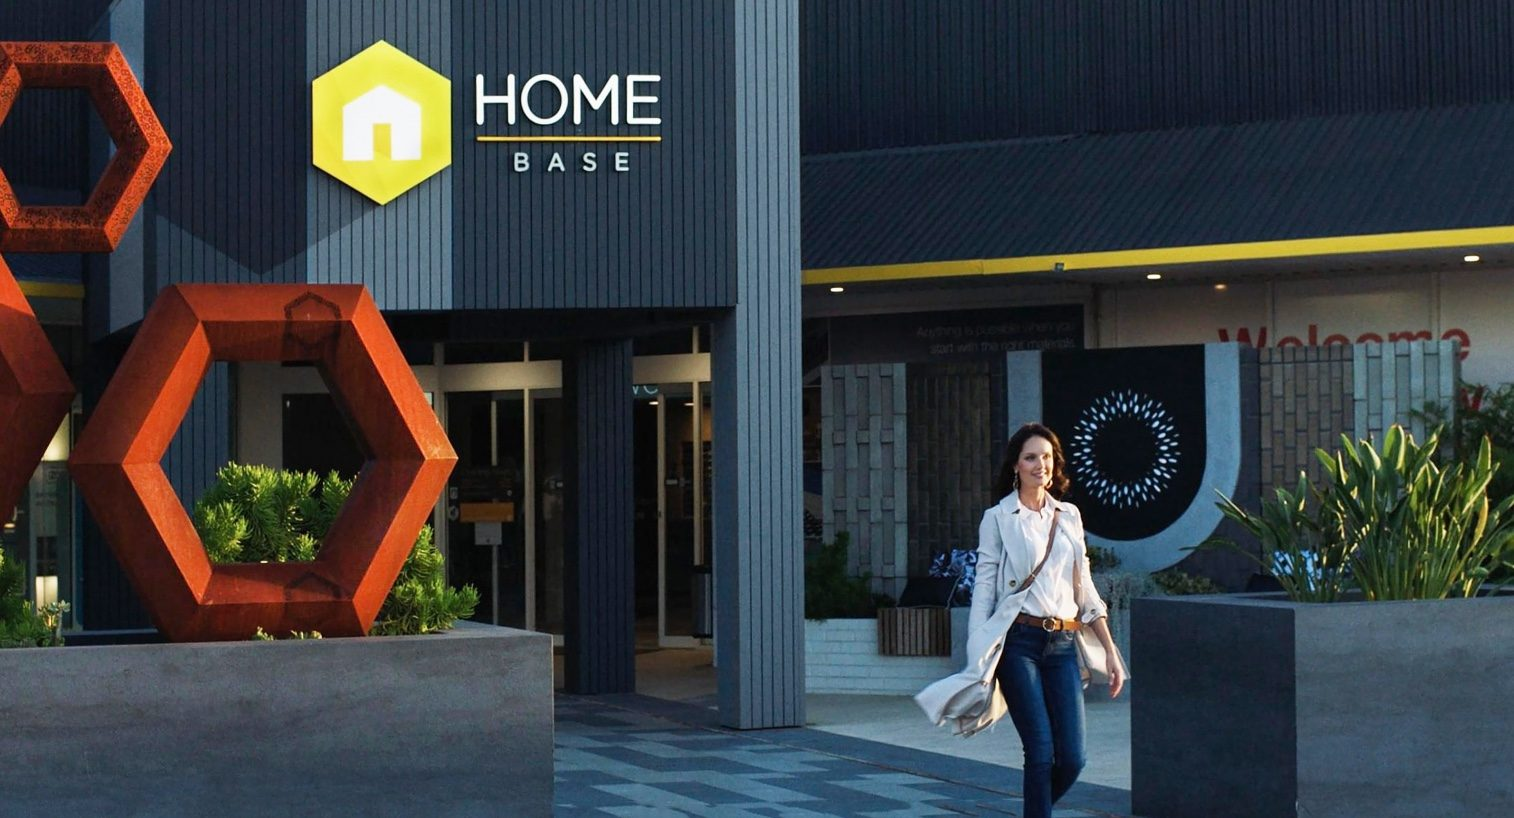
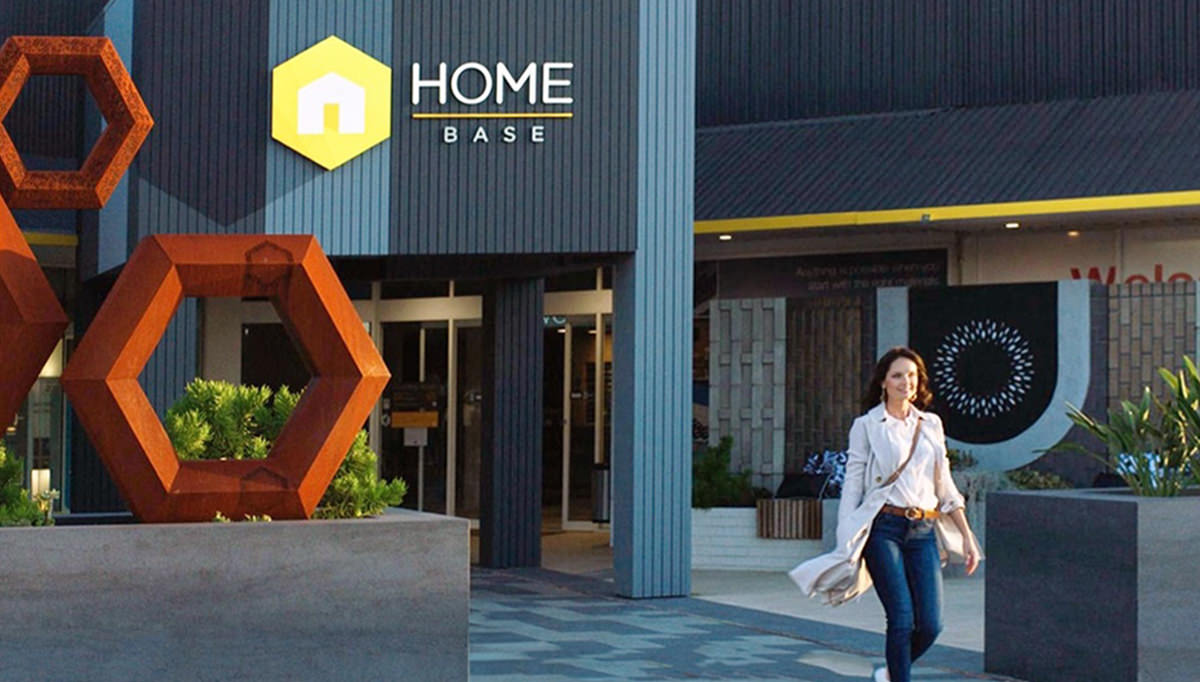
Perth hero: new Home Base entrance, crisp with no dark wash
The hero carried a gradient from black at the top to solid black at the
bottom. It is gone — the heading and the line under it already carry their
own shadows. Pictures now come through at 2200px and quality 92 instead of
1600 at 82.

diff --git a/src/components/CityPage.jsx b/src/components/CityPage.jsx
@@ -138,7 +138,7 @@ export default function CityPage({ city }) {
           {slides.map((src, i) => (
             <img
               key={`${src}-${i}`}
-              src={netlifyImg(src, { w: 1600, q: 82 })}
+              src={netlifyImg(src, { w: 2200, q: 92 })}
               alt={`ROGETjames laser cut work in ${name}`}
               className="city-hero-slide absolute inset-0 w-full h-full object-contain"
               style={{ opacity: i === 0 ? 1 : 0 }}
@@ -147,7 +147,6 @@ export default function CityPage({ city }) {
             />
           ))}
         </div>
-        <div className="absolute inset-0 bg-gradient-to-b from-black/30 via-transparent to-matt-black pointer-events-none" />
 
         <div className="relative z-10 w-full max-w-7xl mx-auto px-6 md:px-12 pb-16 md:pb-24">
           <div className="max-w-4xl">
